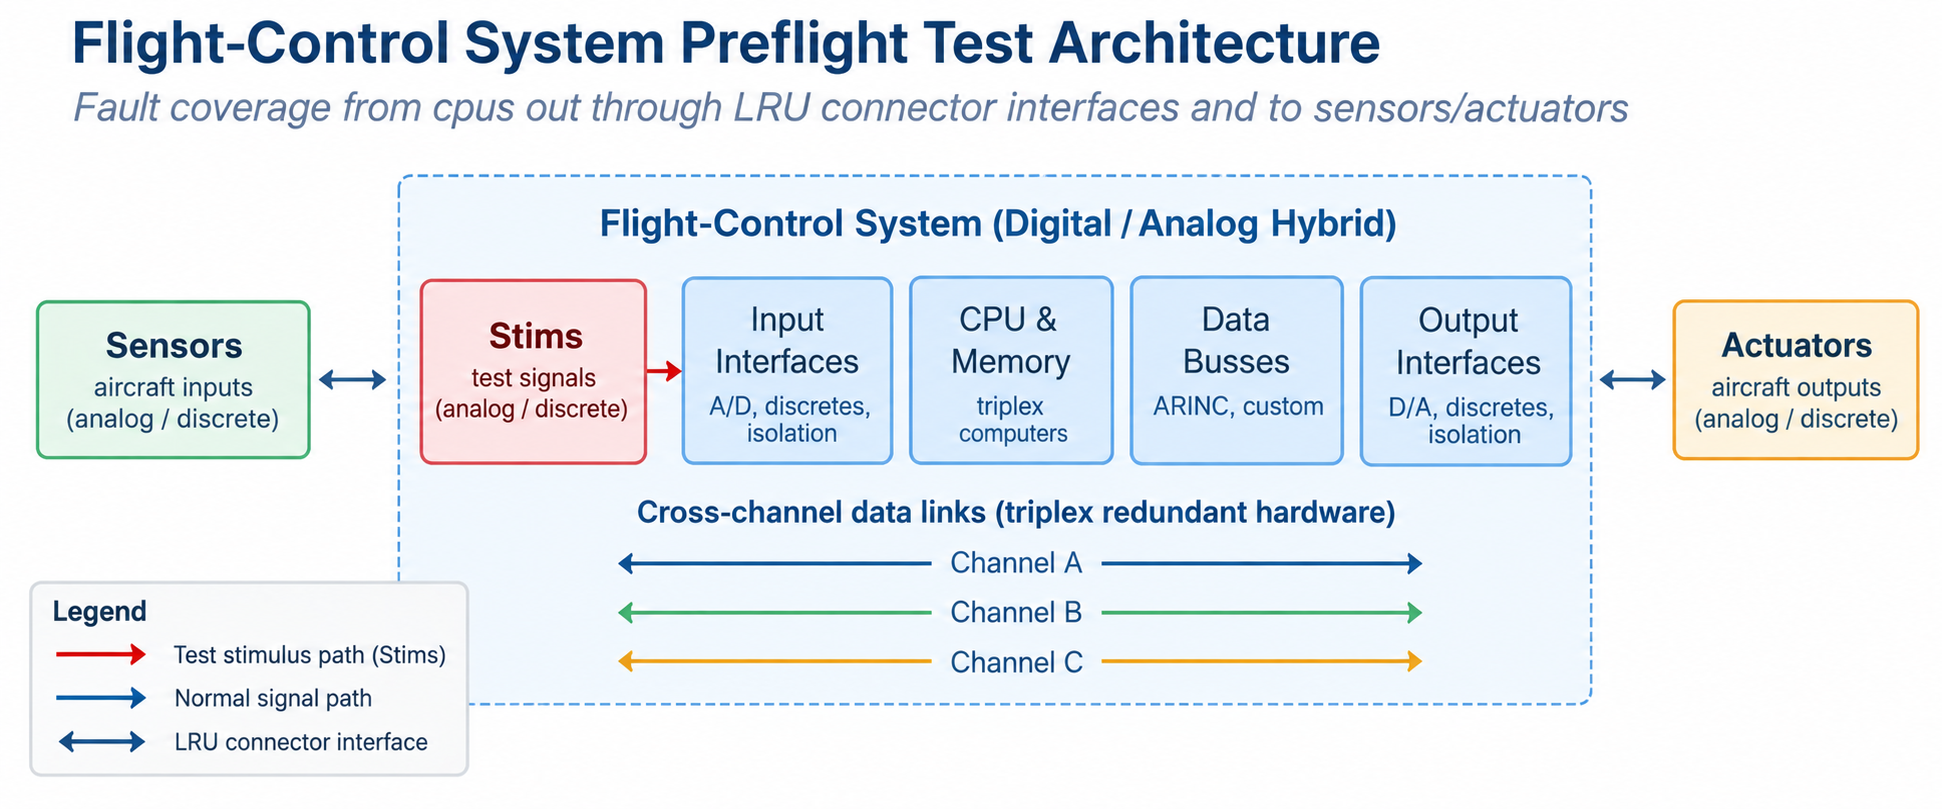
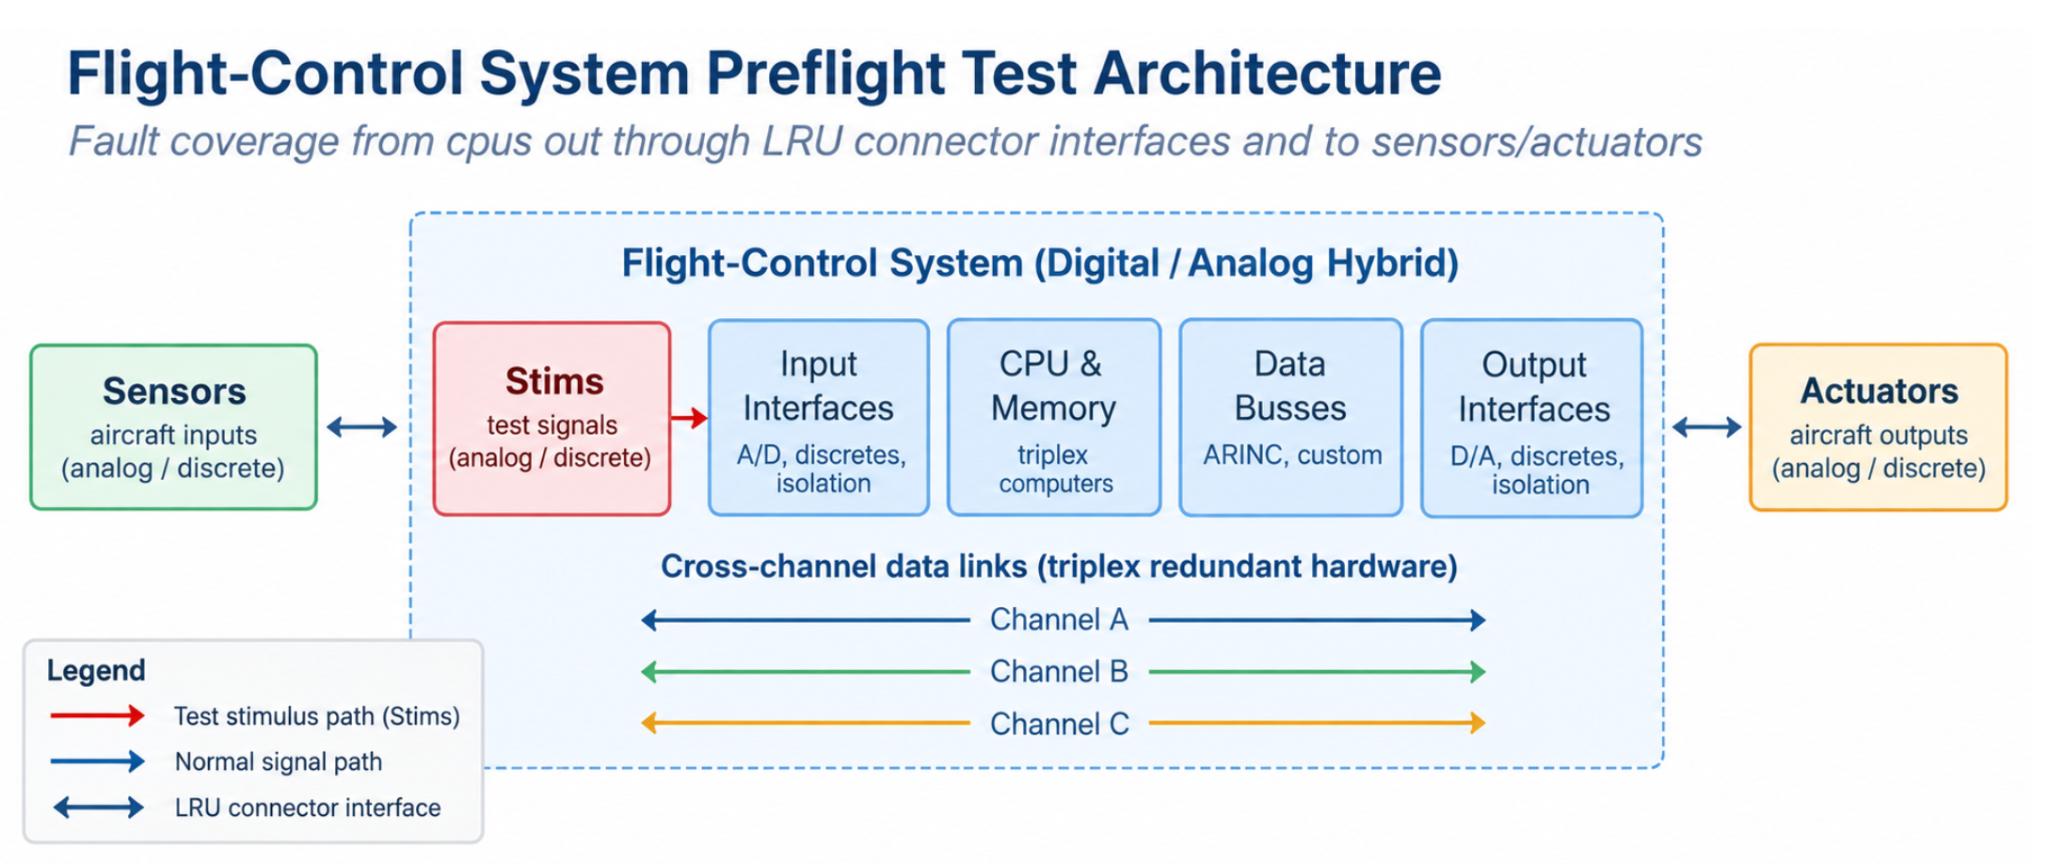
Add files via upload

Changed region(s): [[0.0, 0.2163, 0.9887, 0.9889], [0.0309, 0.0, 0.8342, 0.1854]]

diff --git a/boeing.html b/boeing.html
@@ -10,29 +10,43 @@
 .top{background:linear-gradient(90deg,#102b43,#173a58);color:#fff;padding:10px 24px;display:flex;align-items:center;justify-content:space-between;gap:24px;position:sticky;top:0;z-index:10}
 .brand strong{display:block;font-size:20px;line-height:1.05}.brand span{font-size:11px;opacity:.95}nav{display:flex;gap:30px;font-size:13px}nav a{opacity:.82;padding:7px 0}nav a.active{opacity:1;border-bottom:2px solid #56b4e9}
 .page{max-width:1120px;margin:0 auto;background:#fff}.hero{display:grid;grid-template-columns:42% 58%;gap:28px;padding:16px 18px 12px;border-bottom:1px solid var(--line)}
-.visual{height:auto;min-height:0;border-radius:6px;background:#163c5d;position:relative;overflow:hidden;color:#fff;padding:0;display:block}.visual:before{display:none}.heroimg{display:block;width:100%;height:auto;max-width:100%;margin:0 auto}
-
+.visual{height:478px;border-radius:3px;background:linear-gradient(145deg,#0e2a44,#1c4b70 55%,#173a58);position:relative;overflow:hidden;color:#fff;padding:26px;display:flex;flex-direction:column;justify-content:space-between}
+.visual:before{content:"";position:absolute;inset:0;background:radial-gradient(circle at 20% 20%,rgba(255,255,255,.16),transparent 32%),linear-gradient(rgba(255,255,255,.025) 1px,transparent 1px),linear-gradient(90deg,rgba(255,255,255,.025) 1px,transparent 1px);background-size:auto,28px 28px,28px 28px}
 .vtop,.vdiagram,.vfoot{position:relative;z-index:1}.vtop .tag{font-size:11px;text-transform:uppercase;letter-spacing:.12em;opacity:.78}.vtop h3{font-size:28px;line-height:1.02;margin:8px 0 0}.aircraft{width:100%;margin:10px 0 4px}.aircraft svg{width:100%;height:130px;display:block}.vdiagram{display:grid;grid-template-columns:1fr 22px 1.35fr;gap:9px;align-items:center}.mini-stack{display:grid;gap:7px}.mini-box{border:1px solid rgba(255,255,255,.46);background:rgba(255,255,255,.08);border-radius:4px;padding:8px 7px;font-size:10px;text-align:center}.mini-box.cmcs{background:rgba(105,178,238,.2);border-color:#8fc7ef;font-weight:700}.v-arrow{text-align:center;font-size:21px;font-weight:700}.vfoot{font-size:11px;line-height:1.45;color:#d8e7f4;border-top:1px solid rgba(255,255,255,.24);padding-top:12px}.caption{font-size:11px;color:#6d7d8d;font-style:italic;margin-top:5px}
 .eyebrow{font-size:13px;font-weight:800;letter-spacing:.03em;color:#6484a4;text-transform:uppercase;margin:6px 0 8px}h1{font-size:38px;line-height:1.02;margin:0 0 6px;color:#102b43;letter-spacing:-.02em}.sub{font-size:15px;color:#617b96;font-style:italic;margin-bottom:8px}.meta{font-size:14px;margin-bottom:10px;color:#33495f}.summary{font-size:15px;line-height:1.5;margin:0 0 14px;color:#394854}
 .metrics{display:grid;grid-template-columns:repeat(3,1fr);background:linear-gradient(90deg,#edf6ff,#e9f3fb);border-radius:5px;padding:15px 10px;gap:0}.metric{padding:0 12px;border-right:1px solid #c8d9e8;min-height:66px}.metric:last-child{border-right:none}.metric b{display:block;color:#15446c;font-size:17px;margin-bottom:4px}.metric span{font-size:11px;color:#22445f;display:block}
 .grid{display:grid;grid-template-columns:1fr 1fr}.panel{padding:18px 18px 20px;min-height:310px;border-bottom:1px solid var(--line)}.panel:nth-child(odd){border-right:1px solid var(--line)}.panel h2{font-size:17px;color:#17446e;margin:0}.panel .kicker{margin:2px 0 16px 22px;color:#6d84a0;font-style:italic;font-size:12px}.num{font-weight:800;margin-right:8px}
 .arch{display:grid;grid-template-columns:1fr 26px 1.2fr 26px 1fr;gap:8px;align-items:center;margin-top:26px}.group{display:grid;gap:8px}.node{border:1.5px solid #6aa5d8;background:#d9ecfb;border-radius:5px;padding:10px 7px;text-align:center;font-size:11px}.node.green{background:var(--green);border-color:var(--greenb)}.node.amber{background:var(--amber);border-color:var(--amberb)}.node.primary{background:#cfe5fb;border-color:#5793ce;color:#173d64;font-weight:700}.node small{display:block;font-weight:400;color:#35546e;margin-top:3px}.arr{font-weight:800;color:#2f628d;text-align:center}.arch-note{font-size:11px;color:#536d86;margin-top:16px;text-align:center}
 .walk{display:grid;grid-template-columns:1fr 26px 1fr 26px 1fr;gap:8px;align-items:center;margin-top:28px}.fault{border:1px solid #9aaebe;background:#f8fafc;border-radius:5px;padding:11px 8px;text-align:center;font-size:10.5px}.fault.root{background:#e9f7ee;border-color:#5dbb78;color:#235d34;font-weight:700}.fault.down{background:#fff3ed;border-color:#df8f65}.rootcall{margin-top:18px;border-left:4px solid #5dbb78;background:#f2fbf4;padding:10px 12px;font-size:11px}.rootcall b{color:#235d34}
-.faultpane{margin-top:18px;background:#eef6fc;border:1.5px solid #9fc4e8;border-radius:10px;padding:10px}.faultpane img{display:block;width:100%;height:auto;border-radius:8px}.faultcap{margin-top:10px;font-size:11px;color:#47637d;line-height:1.45}
-
 .steps{display:grid;gap:4px}.step{display:grid;grid-template-columns:46% 54%;align-items:center;gap:8px}.chev{background:#74aee0;color:#143657;padding:7px 12px 7px 28px;font-size:10.5px;font-weight:700;clip-path:polygon(0 0,92% 0,100% 50%,92% 100%,0 100%,8% 50%)}.desc{font-size:10.5px;color:#35485b}
 .invest{display:grid;gap:9px;margin-top:6px}.invest-row{display:grid;grid-template-columns:34px 1fr;gap:10px;align-items:start}.bubble{width:30px;height:30px;border-radius:50%;display:flex;align-items:center;justify-content:center;background:#d9ecfb;border:1px solid #6aa5d8;color:#17446e;font-weight:800;font-size:11px}.invest-box{border:1px solid #d8e1ea;border-radius:5px;padding:8px 10px;font-size:10.5px;background:#fafcfe}.invest-row:last-child .invest-box{background:#e9f7ee;border-color:#73bd86}.invest-row:last-child .bubble{background:#dff3e5;border-color:#73bd86;color:#235d34}
 .results{background:linear-gradient(90deg,#163c5d,#2b5574);color:#fff;padding:20px 30px 18px}.results h3{margin:0 0 18px;font-size:16px;letter-spacing:.04em}.resgrid{display:grid;grid-template-columns:1fr 1fr 1.7fr;gap:22px}.res{border-right:1px solid rgba(255,255,255,.3);padding-right:20px}.res:last-child{border-right:none}.res strong{display:block;font-size:28px;line-height:1.05;margin-bottom:6px}.res span{font-size:13px;line-height:1.25;display:block}.footer{background:#102b43;color:#cbd8e4;text-align:center;padding:12px;font-style:italic;font-size:13px}
-.site-footer{background:#0d2236;color:#d6e2ec;padding:24px 28px;margin-top:0}.site-footer .foot-inner{max-width:1120px;margin:0 auto;display:flex;justify-content:space-between;gap:20px;align-items:center}.site-footer .project-nav{display:flex;gap:10px;flex-wrap:wrap}.site-footer a{border:1px solid rgba(255,255,255,.24);padding:8px 12px;border-radius:4px;font-size:12px}.site-footer a:hover{background:rgba(255,255,255,.08)}.site-footer .small{font-size:11px;color:#9fb1c0}@media(max-width:700px){.site-footer .foot-inner{align-items:flex-start;flex-direction:column}}
-@media (max-width:820px){.top{position:static;align-items:flex-start}nav{gap:14px;flex-wrap:wrap;justify-content:flex-end}.hero{grid-template-columns:1fr}.visual{width:min(86vw,430px);height:auto;min-height:0;margin:0 auto}.caption{width:min(86vw,430px);margin:5px auto 0}.grid{grid-template-columns:1fr}.panel:nth-child(odd){border-right:none}.metrics{grid-template-columns:1fr}.metric{border-right:none;border-bottom:1px solid #c8d9e8;padding:10px}.metric:last-child{border-bottom:none}.resgrid{grid-template-columns:1fr}.res{border-right:none;border-bottom:1px solid rgba(255,255,255,.3);padding:0 0 12px}.arch{grid-template-columns:1fr}.arr{transform:rotate(90deg)}.walk{grid-template-columns:1fr}.walk .arr{transform:rotate(90deg)}}
+@media (max-width:820px){.top{position:static;align-items:flex-start}nav{gap:14px;flex-wrap:wrap;justify-content:flex-end}.hero{grid-template-columns:1fr}.visual{height:auto;min-height:450px}.grid{grid-template-columns:1fr}.panel:nth-child(odd){border-right:none}.metrics{grid-template-columns:1fr}.metric{border-right:none;border-bottom:1px solid #c8d9e8;padding:10px}.metric:last-child{border-bottom:none}.resgrid{grid-template-columns:1fr}.res{border-right:none;border-bottom:1px solid rgba(255,255,255,.3);padding:0 0 12px}.arch{grid-template-columns:1fr}.arr{transform:rotate(90deg)}.walk{grid-template-columns:1fr}.walk .arr{transform:rotate(90deg)}}
 </style>
 </head>
 <body id="top">
-<header class="top"><div class="brand"><strong>Paul Snyder</strong><span>Systems Engineering&nbsp; • &nbsp;Embedded Systems&nbsp; • &nbsp;Aerospace&nbsp; • &nbsp;Real-World Solutions</span></div><nav><a href="index.html">Home</a><a class="active" href="index.html#projects">Projects</a><a href="index.html#about">About</a><a href="index.html#contact">Contact</a></nav></header>
+<header class="top"><div class="brand"><strong>Paul Snyder</strong><span>Systems Engineering&nbsp; • &nbsp;Embedded Systems&nbsp; • &nbsp;Aerospace&nbsp; • &nbsp;Real-World Solutions</span></div><nav><a href="#top">Home</a><a class="active" href="#projects">Projects</a><a href="#about">About</a><a href="#resume">Resume</a><a href="#contact">Contact</a></nav></header>
 <main class="page" id="projects">
 <section class="hero">
   <div>
-    <div class="visual"><img class="heroimg" src="boeing-cmcs-hero.png" alt="Upgrade 777 CMCS System for -300 Model hero pane" /></div>
+    <div class="visual">
+      <div class="vtop"><div class="tag">Aircraft-wide maintenance integration</div><h3>777-300 CMCS<br>Fault-Model Flow</h3></div>
+      <div class="aircraft">
+        <svg viewBox="0 0 640 180" xmlns="http://www.w3.org/2000/svg" aria-label="stylized twin-engine transport aircraft">
+          <g fill="none" stroke="#d6e8f5" stroke-width="3" stroke-linecap="round" stroke-linejoin="round" opacity=".95">
+            <path d="M34 93 L240 84 L316 26 L336 26 L306 84 L535 82 L612 62 L620 70 L553 94 L620 108 L611 117 L535 97 L305 96 L336 154 L316 154 L240 96 L34 91 Z"/>
+            <ellipse cx="253" cy="107" rx="30" ry="14"/><ellipse cx="374" cy="106" rx="30" ry="14"/>
+            <path d="M74 90 L45 67 M74 93 L45 117"/>
+          </g>
+        </svg>
+      </div>
+      <div class="vdiagram">
+        <div class="mini-stack"><div class="mini-box">100+ member systems</div><div class="mini-box">Reported faults</div><div class="mini-box">Propagation rules</div></div>
+        <div class="v-arrow">→</div>
+        <div class="mini-stack"><div class="mini-box cmcs">CMCS Database<br><span style="font-weight:400">777 maintenance fault model</span></div><div class="mini-box cmcs">Fault isolation<br><span style="font-weight:400">“walk the chain” to root cause</span></div></div>
+      </div>
+      <div class="vfoot">The 777 CMCS was already in production when I took the role. My work focused on the 777-300 version: evolving the aircraft maintenance fault model, validating production releases, troubleshooting integration failures, and investigating in-service anomalies.</div>
+    </div>
     <div class="caption">Conceptual portfolio diagram — newly drawn from personally confirmed responsibilities; not a Boeing design artifact.</div>
   </div>
   <div>
@@ -49,9 +63,9 @@
     <div class="arch"><div class="group"><div class="node green"><b>Member Systems</b><small>100+ aircraft systems</small></div><div class="node">Reportable Faults</div><div class="node">Fault Propagation Rules</div></div><div class="arr">→</div><div class="group"><div class="node primary">CMCS Database<small>implemented the 777 maintenance fault model</small></div><div class="node primary">777-300 Revisions<small>translated approved member-system changes into database content</small></div></div><div class="arr">→</div><div class="group"><div class="node amber"><b>Maintenance Interpretation</b><small>fault and dispatch information</small></div><div class="node amber">Flight Deck &amp; Maintenance Personnel</div></div></div>
     <div class="arch-note">My role was to work with member-system engineers to determine changes to the baseline 777 fault model, then translate those changes into the CMCS database.</div>
   </div>
-  <div class="panel"><h2><span class="num">2.</span>777-300 CMCS Fault Isolation</h2><div class="kicker">Fault reports from aircraft subsystems converging to CMCS for root-cause isolation</div>
-    <div class="faultpane"><img src="boeing-fault-isolation.png" alt="777-300 CMCS Fault Isolation diagram" /></div>
-    <div class="faultcap"><b>Concept:</b> each marked aircraft fault report is shown feeding CMCS through a dotted reporting path; two reports remain suspect while one is confirmed good, illustrating the need for CMCS fault isolation.</div>
+  <div class="panel"><h2><span class="num">2.</span>Root-Cause Fault Isolation</h2><div class="kicker">CMCS “walked the chain” of propagated faults to the highest upstream fault</div>
+    <div class="walk"><div class="fault down"><b>Downstream fault report</b><br>Member-system indication</div><div class="arr">←</div><div class="fault down"><b>Propagation link</b><br>Relationship defined by system engineer</div><div class="arr">←</div><div class="fault root"><b>Highest upstream fault</b><br>Identified as root cause</div></div>
+    <div class="rootcall"><b>Fault-isolation logic:</b> CMCS used the database propagation relationships to move upstream through reported faults until the highest upstream fault was reached and identified as the root cause.</div>
   </div>
   <div class="panel"><h2><span class="num">3.</span>777-300 Production Release &amp; Validation</h2><div class="kicker">From member-system change through validated software/database release</div>
     <div class="steps"><div class="step"><div class="chev">1. Collect Requirements</div><div class="desc">Worked with member-system engineers to capture fault-model changes</div></div><div class="step"><div class="chev">2. Modify Database</div><div class="desc">Translated approved changes into CMCS database content</div></div><div class="step"><div class="chev">3. Create Test Procedures</div><div class="desc">Defined validation procedures for changed functionality</div></div><div class="step"><div class="chev">4. Execute SIL Tests</div><div class="desc">Tested every individual fault case and selected fault combinations</div></div><div class="step"><div class="chev">5. Troubleshoot Integration</div><div class="desc">Investigated and resolved integration failures found during validation</div></div><div class="step"><div class="chev">6. Production Release</div><div class="desc">Software and database version released after completion of validation testing</div></div></div>
@@ -63,4 +77,4 @@
 <section class="results"><h3>◎ &nbsp; RESULT</h3><div class="resgrid"><div class="res"><strong>100+ systems</strong><span>Aircraft-wide maintenance fault-model changes coordinated with member-system engineers</span></div><div class="res"><strong>Validated releases</strong><span>All individual fault cases and selected combinations tested in the Integrated Avionics Systems Laboratory</span></div><div class="res"><strong>Fleet anomaly reproduced</strong><span>A difficult worldwide-fleet problem was recreated after months of SIL investigation, enabling Honeywell software engineering to identify the underlying software bug.</span></div></div></section>
 <div class="footer">Aircraft-wide fault information translated into validated maintenance behavior.</div>
 </main>
-<footer class="site-footer"><div class="foot-inner"><div><strong>Paul Snyder — Engineering Portfolio</strong><div class="small">Bellevue, Washington • paulcollector@gmail.com</div></div><div class="project-nav"><a href="jas39.html">Previous: JAS-39 Gripen</a><a href="index.html#projects">All Projects</a><a href="entrepreneurial.html">Next: Entrepreneurial Projects</a></div></div></footer></body></html>
+</body></html>
